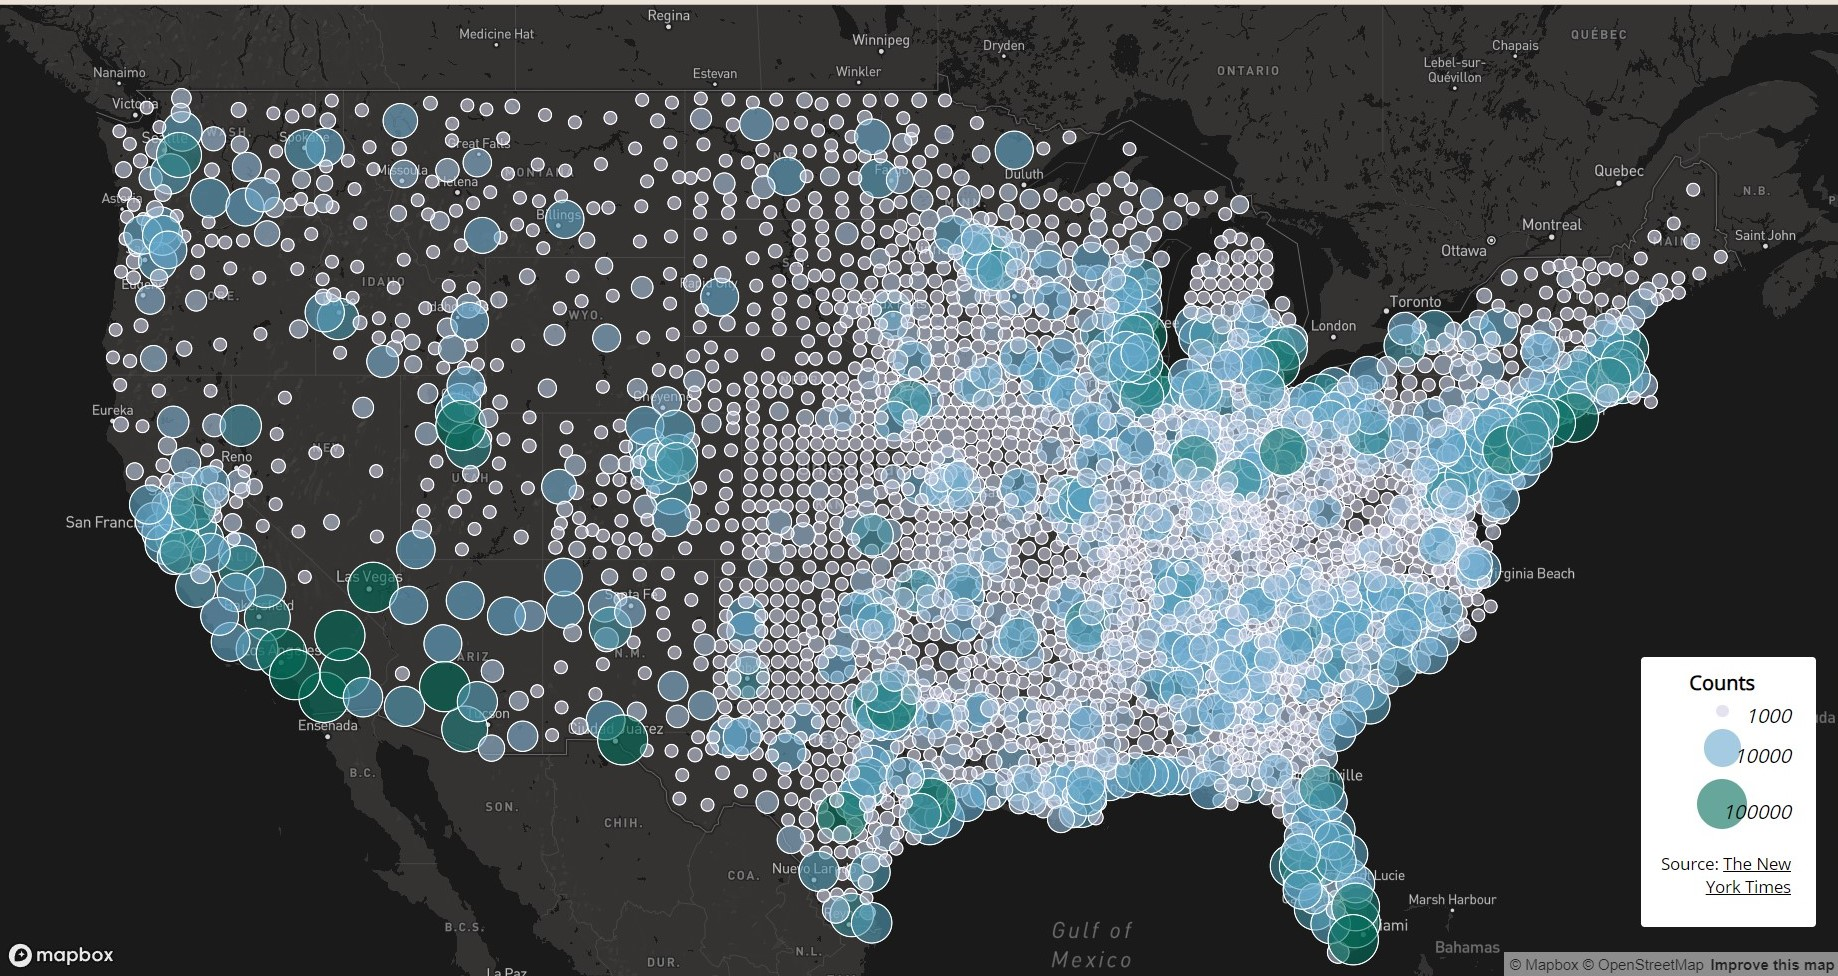
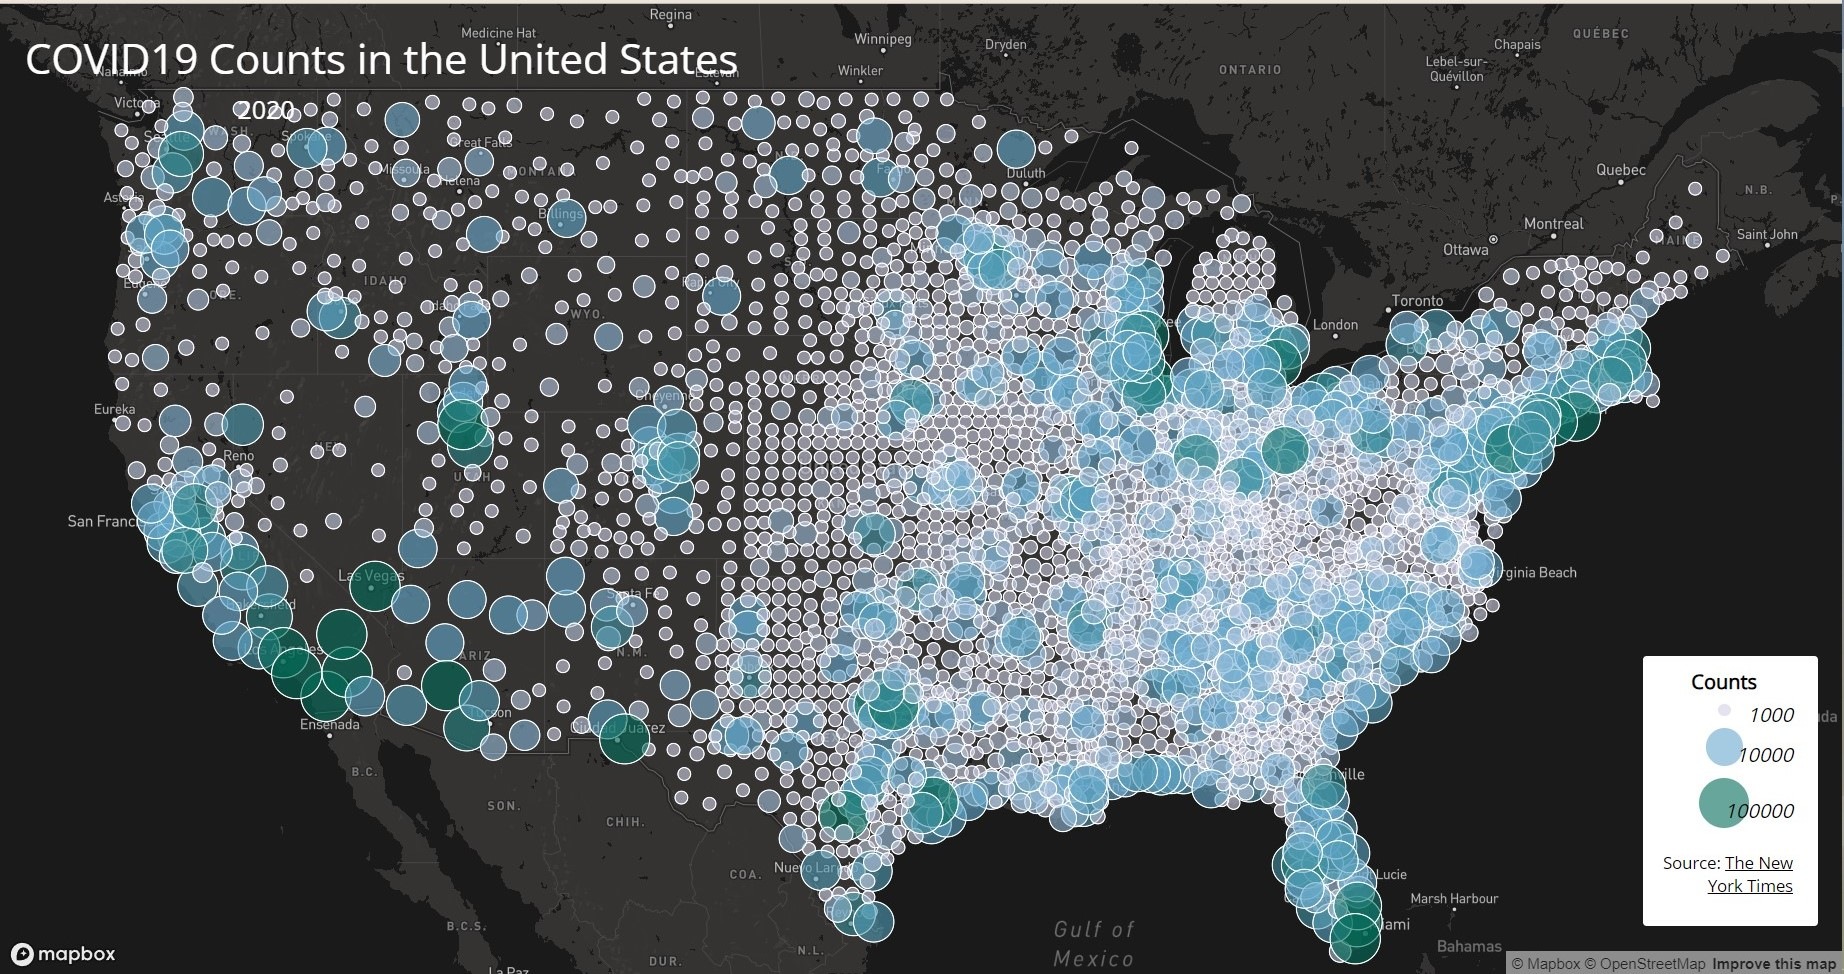
update files

diff --git a/index.html b/index.html
@@ -20,7 +20,7 @@
     <div id="subtitle">
         2020
     </div>
-    <script src="js/Map2Main.js"></script>
+    <script src="js/Main.js"></script>
 
 </body>
 </html>

diff --git a/README.md b/README.md
@@ -3,4 +3,10 @@
 ## Introduction 
 The following two maps are primarily focused on visualizing COVID19 rates and counts in the United States during the year of 2020. 
 
-In the [first map](https://github.com/elilsan/COVID19-rates-and-cases/blob/54edcee3c826642ec410fe427dda0cc58999365f/map1.html), we can see that COVID19 rates are being visualized based on counties, and not necessarily states. Categorizing the data rate by county 
+In the [first map](https://github.com/elilsan/COVID19-rates-and-cases/blob/54edcee3c826642ec410fe427dda0cc58999365f/map1.html), we can see that COVID19 rates are being visualized based on counties, and not necessarily states. Categorizing the data rate by county makes it easier to see exactly which areas are reported to have higher rates of COVID19 infections. In addition, it would be confusing to the viewer if the data were to be categorized by state. 
+
+![](img/covidrates.jpg)
+
+In the [second map](https://github.com/elilsan/COVID19-rates-and-cases/blob/0f4d77634b6281244e2deff5ecd351c9e3dcb1b6/map2.html), the COVID19 counts were visualized with proportional symbols. This made the counts easier to see for the viewer because in this way, we can see were more people were infected and where there could be clusters. 
+![](img/covidcounts.jpg)
+
